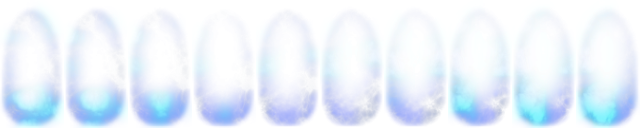
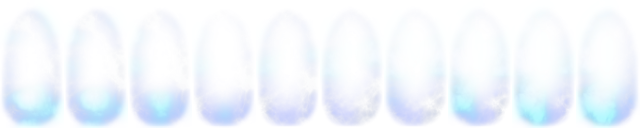
Graphics, Explosions

Changed region(s): [[0.0, 0.7188, 0.5625, 1.0], [0.5938, 0.6562, 1.0, 1.0]]

diff --git a/src/game/model/Player.java b/src/game/model/Player.java
@@ -10,6 +10,7 @@ import game.interfaces.IDestroyable;
 import java.awt.Point;
 
 import org.newdawn.slick.*;
+import org.newdawn.slick.particles.ConfigurableEmitter;
 import org.newdawn.slick.state.StateBasedGame;
 
 import slick.extension.AppGameContainerFSCustom;
@@ -43,7 +44,7 @@ public class Player extends GameObject implements IDestroyable, ExplosionListene
     private Image		stopLeft;
 
     private int 		animationInterval;
-    private int 		dyingAnimationInterval = 50;
+    private int 		dyingAnimationInterval = 75;
     private int			shieldAnimationInterval = 50;
     
     private Animation 	animation_actual;
@@ -175,8 +176,11 @@ public class Player extends GameObject implements IDestroyable, ExplosionListene
         image.draw(x, y);
         
         if (shielded) {
+            //creates an filter for fading the shields alpha with shieldtime
+            float ramp = shieldTimer/10000f;
+            Color alphaFilter = new Color(ramp*3f,ramp*2f ,ramp, ramp);
             g.setDrawMode(Graphics.MODE_SCREEN);
-        	animation_shielded.draw(x, y);
+        	animation_shielded.draw(x, y, 64, 128, alphaFilter);
             g.setDrawMode(Graphics.MODE_NORMAL);
         }
 
